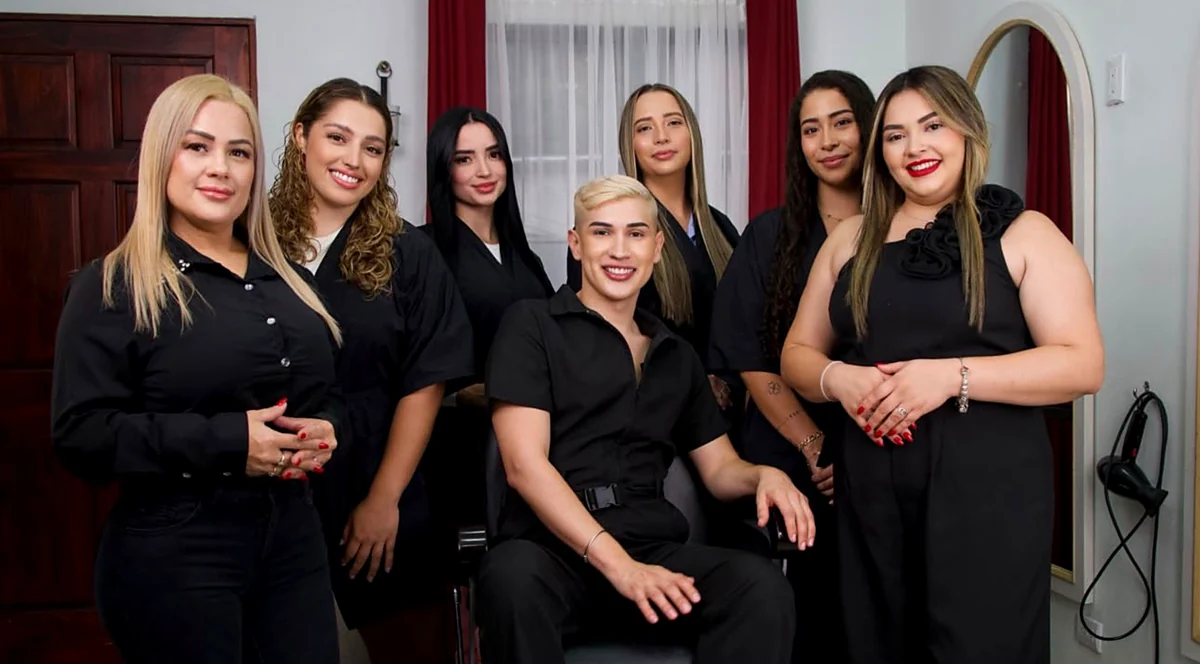
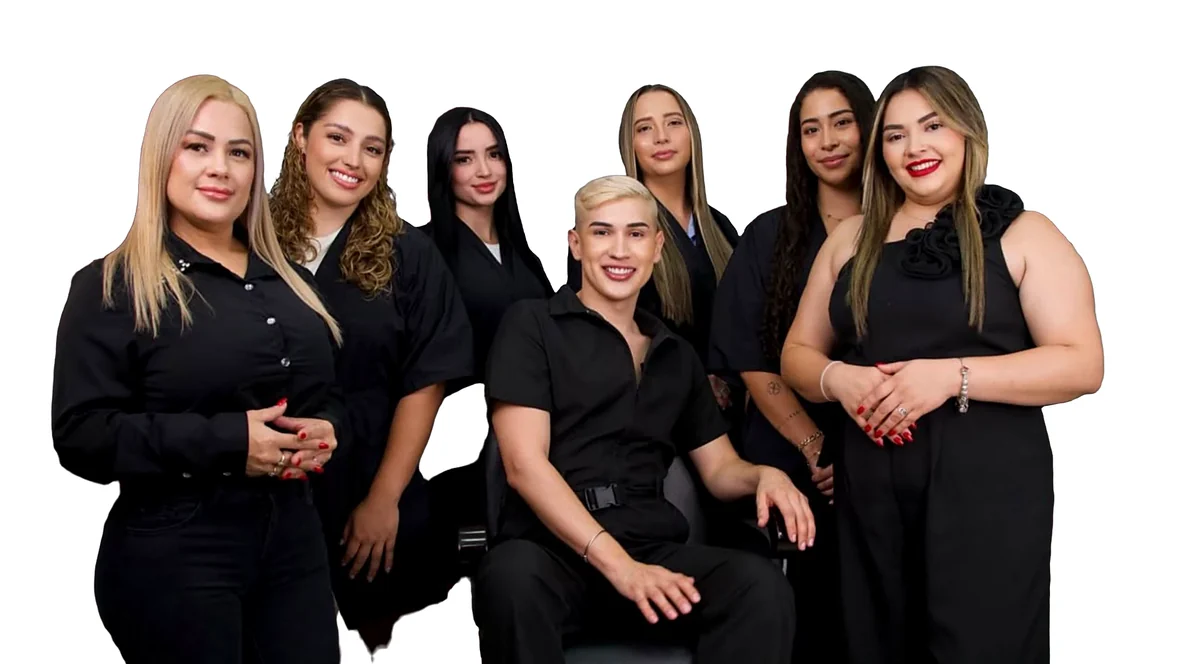
Sobre nosotros: foto del equipo con fondo blanco (rembg BiRefNet) y texto en franja debajo de la foto

diff --git a/reservar.html b/reservar.html
@@ -10,7 +10,7 @@
 <link rel="preconnect" href="https://fonts.googleapis.com">
 <link rel="preconnect" href="https://fonts.gstatic.com" crossorigin>
 <link href="https://fonts.googleapis.com/css2?family=Montserrat:wght@300;400;500;600;700&family=Playfair+Display:ital,wght@0,400;0,500;0,600;0,700;1,400;1,500;1,600;1,700&display=swap" rel="stylesheet">
-<link rel="stylesheet" href="css/style.css?v=202610102307">
+<link rel="stylesheet" href="css/style.css?v=202610102311">
 </head>
 <body>
 
@@ -335,8 +335,8 @@
     <svg viewBox="0 0 24 24" fill="none" stroke="currentColor" stroke-width="1.6" aria-hidden="true"><path d="M4 20l1.3-4.2A7.7 7.7 0 1 1 9 18.6L4 20Z"/><path d="M8.5 9.7c0 3.3 2.7 6 6 6"/></svg>
   </a>
 
-  <script src="js/main.js?v=202610102307"></script>
-  <script src="js/services-data.js?v=202610102307"></script>
-  <script src="js/booking.js?v=202610102307"></script>
+  <script src="js/main.js?v=202610102311"></script>
+  <script src="js/services-data.js?v=202610102311"></script>
+  <script src="js/booking.js?v=202610102311"></script>
 </body>
 </html>

diff --git a/index.html b/index.html
@@ -17,7 +17,7 @@
 <link rel="preconnect" href="https://fonts.googleapis.com">
 <link rel="preconnect" href="https://fonts.gstatic.com" crossorigin>
 <link href="https://fonts.googleapis.com/css2?family=Montserrat:wght@300;400;500;600;700&family=Playfair+Display:ital,wght@0,400;0,500;0,600;0,700;1,400;1,500;1,600;1,700&display=swap" rel="stylesheet">
-<link rel="stylesheet" href="css/style.css?v=202610102307">
+<link rel="stylesheet" href="css/style.css?v=202610102311">
 </head>
 <body>
 
@@ -342,6 +342,6 @@
     <svg viewBox="0 0 24 24" fill="none" stroke="currentColor" stroke-width="1.6" aria-hidden="true"><path d="M4 20l1.3-4.2A7.7 7.7 0 1 1 9 18.6L4 20Z"/><path d="M8.5 9.7c0 3.3 2.7 6 6 6"/></svg>
   </a>
 
-  <script src="js/main.js?v=202610102307"></script>
+  <script src="js/main.js?v=202610102311"></script>
 </body>
 </html>

diff --git a/productos.html b/productos.html
@@ -10,7 +10,7 @@
 <link rel="preconnect" href="https://fonts.googleapis.com">
 <link rel="preconnect" href="https://fonts.gstatic.com" crossorigin>
 <link href="https://fonts.googleapis.com/css2?family=Montserrat:wght@300;400;500;600;700&family=Playfair+Display:ital,wght@0,400;0,500;0,600;0,700;1,400;1,500;1,600;1,700&display=swap" rel="stylesheet">
-<link rel="stylesheet" href="css/style.css?v=202610102307">
+<link rel="stylesheet" href="css/style.css?v=202610102311">
 </head>
 <body>
 
@@ -178,6 +178,6 @@
     <svg viewBox="0 0 24 24" fill="none" stroke="currentColor" stroke-width="1.6" aria-hidden="true"><path d="M4 20l1.3-4.2A7.7 7.7 0 1 1 9 18.6L4 20Z"/><path d="M8.5 9.7c0 3.3 2.7 6 6 6"/></svg>
   </a>
 
-  <script src="js/main.js?v=202610102307"></script>
+  <script src="js/main.js?v=202610102311"></script>
 </body>
 </html>

diff --git a/servicios-alisamientos.html b/servicios-alisamientos.html
@@ -10,7 +10,7 @@
 <link rel="preconnect" href="https://fonts.googleapis.com">
 <link rel="preconnect" href="https://fonts.gstatic.com" crossorigin>
 <link href="https://fonts.googleapis.com/css2?family=Montserrat:wght@300;400;500;600;700&family=Playfair+Display:ital,wght@0,400;0,500;0,600;0,700;1,400;1,500;1,600;1,700&display=swap" rel="stylesheet">
-<link rel="stylesheet" href="css/style.css?v=202610102307">
+<link rel="stylesheet" href="css/style.css?v=202610102311">
 </head>
 <body>
 
@@ -335,6 +335,6 @@
     <svg viewBox="0 0 24 24" fill="none" stroke="currentColor" stroke-width="1.6" aria-hidden="true"><path d="M4 20l1.3-4.2A7.7 7.7 0 1 1 9 18.6L4 20Z"/><path d="M8.5 9.7c0 3.3 2.7 6 6 6"/></svg>
   </a>
 
-  <script src="js/main.js?v=202610102307"></script>
+  <script src="js/main.js?v=202610102311"></script>
 </body>
 </html>

diff --git a/servicios-cirugia-capilar.html b/servicios-cirugia-capilar.html
@@ -10,7 +10,7 @@
 <link rel="preconnect" href="https://fonts.googleapis.com">
 <link rel="preconnect" href="https://fonts.gstatic.com" crossorigin>
 <link href="https://fonts.googleapis.com/css2?family=Montserrat:wght@300;400;500;600;700&family=Playfair+Display:ital,wght@0,400;0,500;0,600;0,700;1,400;1,500;1,600;1,700&display=swap" rel="stylesheet">
-<link rel="stylesheet" href="css/style.css?v=202610102307">
+<link rel="stylesheet" href="css/style.css?v=202610102311">
 </head>
 <body>
 
@@ -274,6 +274,6 @@
     <svg viewBox="0 0 24 24" fill="none" stroke="currentColor" stroke-width="1.6" aria-hidden="true"><path d="M4 20l1.3-4.2A7.7 7.7 0 1 1 9 18.6L4 20Z"/><path d="M8.5 9.7c0 3.3 2.7 6 6 6"/></svg>
   </a>
 
-  <script src="js/main.js?v=202610102307"></script>
+  <script src="js/main.js?v=202610102311"></script>
 </body>
 </html>

diff --git a/servicios-color-parejo.html b/servicios-color-parejo.html
@@ -10,7 +10,7 @@
 <link rel="preconnect" href="https://fonts.googleapis.com">
 <link rel="preconnect" href="https://fonts.gstatic.com" crossorigin>
 <link href="https://fonts.googleapis.com/css2?family=Montserrat:wght@300;400;500;600;700&family=Playfair+Display:ital,wght@0,400;0,500;0,600;0,700;1,400;1,500;1,600;1,700&display=swap" rel="stylesheet">
-<link rel="stylesheet" href="css/style.css?v=202610102307">
+<link rel="stylesheet" href="css/style.css?v=202610102311">
 </head>
 <body>
 
@@ -273,6 +273,6 @@
     <svg viewBox="0 0 24 24" fill="none" stroke="currentColor" stroke-width="1.6" aria-hidden="true"><path d="M4 20l1.3-4.2A7.7 7.7 0 1 1 9 18.6L4 20Z"/><path d="M8.5 9.7c0 3.3 2.7 6 6 6"/></svg>
   </a>
 
-  <script src="js/main.js?v=202610102307"></script>
+  <script src="js/main.js?v=202610102311"></script>
 </body>
 </html>

diff --git a/servicios-cortes.html b/servicios-cortes.html
@@ -10,7 +10,7 @@
 <link rel="preconnect" href="https://fonts.googleapis.com">
 <link rel="preconnect" href="https://fonts.gstatic.com" crossorigin>
 <link href="https://fonts.googleapis.com/css2?family=Montserrat:wght@300;400;500;600;700&family=Playfair+Display:ital,wght@0,400;0,500;0,600;0,700;1,400;1,500;1,600;1,700&display=swap" rel="stylesheet">
-<link rel="stylesheet" href="css/style.css?v=202610102307">
+<link rel="stylesheet" href="css/style.css?v=202610102311">
 </head>
 <body>
 
@@ -264,6 +264,6 @@
     <svg viewBox="0 0 24 24" fill="none" stroke="currentColor" stroke-width="1.6" aria-hidden="true"><path d="M4 20l1.3-4.2A7.7 7.7 0 1 1 9 18.6L4 20Z"/><path d="M8.5 9.7c0 3.3 2.7 6 6 6"/></svg>
   </a>
 
-  <script src="js/main.js?v=202610102307"></script>
+  <script src="js/main.js?v=202610102311"></script>
 </body>
 </html>

diff --git a/servicios-rizos.html b/servicios-rizos.html
@@ -10,7 +10,7 @@
 <link rel="preconnect" href="https://fonts.googleapis.com">
 <link rel="preconnect" href="https://fonts.gstatic.com" crossorigin>
 <link href="https://fonts.googleapis.com/css2?family=Montserrat:wght@300;400;500;600;700&family=Playfair+Display:ital,wght@0,400;0,500;0,600;0,700;1,400;1,500;1,600;1,700&display=swap" rel="stylesheet">
-<link rel="stylesheet" href="css/style.css?v=202610102307">
+<link rel="stylesheet" href="css/style.css?v=202610102311">
 </head>
 <body>
 
@@ -239,6 +239,6 @@
     <svg viewBox="0 0 24 24" fill="none" stroke="currentColor" stroke-width="1.6" aria-hidden="true"><path d="M4 20l1.3-4.2A7.7 7.7 0 1 1 9 18.6L4 20Z"/><path d="M8.5 9.7c0 3.3 2.7 6 6 6"/></svg>
   </a>
 
-  <script src="js/main.js?v=202610102307"></script>
+  <script src="js/main.js?v=202610102311"></script>
 </body>
 </html>

diff --git a/servicios-tecnica-color.html b/servicios-tecnica-color.html
@@ -10,7 +10,7 @@
 <link rel="preconnect" href="https://fonts.googleapis.com">
 <link rel="preconnect" href="https://fonts.gstatic.com" crossorigin>
 <link href="https://fonts.googleapis.com/css2?family=Montserrat:wght@300;400;500;600;700&family=Playfair+Display:ital,wght@0,400;0,500;0,600;0,700;1,400;1,500;1,600;1,700&display=swap" rel="stylesheet">
-<link rel="stylesheet" href="css/style.css?v=202610102307">
+<link rel="stylesheet" href="css/style.css?v=202610102311">
 </head>
 <body>
 
@@ -347,6 +347,6 @@
     <svg viewBox="0 0 24 24" fill="none" stroke="currentColor" stroke-width="1.6" aria-hidden="true"><path d="M4 20l1.3-4.2A7.7 7.7 0 1 1 9 18.6L4 20Z"/><path d="M8.5 9.7c0 3.3 2.7 6 6 6"/></svg>
   </a>
 
-  <script src="js/main.js?v=202610102307"></script>
+  <script src="js/main.js?v=202610102311"></script>
 </body>
 </html>

diff --git a/servicios-tratamientos-capilares.html b/servicios-tratamientos-capilares.html
@@ -10,7 +10,7 @@
 <link rel="preconnect" href="https://fonts.googleapis.com">
 <link rel="preconnect" href="https://fonts.gstatic.com" crossorigin>
 <link href="https://fonts.googleapis.com/css2?family=Montserrat:wght@300;400;500;600;700&family=Playfair+Display:ital,wght@0,400;0,500;0,600;0,700;1,400;1,500;1,600;1,700&display=swap" rel="stylesheet">
-<link rel="stylesheet" href="css/style.css?v=202610102307">
+<link rel="stylesheet" href="css/style.css?v=202610102311">
 </head>
 <body>
 
@@ -409,6 +409,6 @@
     <svg viewBox="0 0 24 24" fill="none" stroke="currentColor" stroke-width="1.6" aria-hidden="true"><path d="M4 20l1.3-4.2A7.7 7.7 0 1 1 9 18.6L4 20Z"/><path d="M8.5 9.7c0 3.3 2.7 6 6 6"/></svg>
   </a>
 
-  <script src="js/main.js?v=202610102307"></script>
+  <script src="js/main.js?v=202610102311"></script>
 </body>
 </html>

diff --git a/servicios.html b/servicios.html
@@ -10,7 +10,7 @@
 <link rel="preconnect" href="https://fonts.googleapis.com">
 <link rel="preconnect" href="https://fonts.gstatic.com" crossorigin>
 <link href="https://fonts.googleapis.com/css2?family=Montserrat:wght@300;400;500;600;700&family=Playfair+Display:ital,wght@0,400;0,500;0,600;0,700;1,400;1,500;1,600;1,700&display=swap" rel="stylesheet">
-<link rel="stylesheet" href="css/style.css?v=202610102307">
+<link rel="stylesheet" href="css/style.css?v=202610102311">
 </head>
 <body>
 
@@ -269,6 +269,6 @@
     <svg viewBox="0 0 24 24" fill="none" stroke="currentColor" stroke-width="1.6" aria-hidden="true"><path d="M4 20l1.3-4.2A7.7 7.7 0 1 1 9 18.6L4 20Z"/><path d="M8.5 9.7c0 3.3 2.7 6 6 6"/></svg>
   </a>
 
-  <script src="js/main.js?v=202610102307"></script>
+  <script src="js/main.js?v=202610102311"></script>
 </body>
 </html>

diff --git a/sobre-nosotros.html b/sobre-nosotros.html
@@ -10,7 +10,7 @@
 <link rel="preconnect" href="https://fonts.googleapis.com">
 <link rel="preconnect" href="https://fonts.gstatic.com" crossorigin>
 <link href="https://fonts.googleapis.com/css2?family=Montserrat:wght@300;400;500;600;700&family=Playfair+Display:ital,wght@0,400;0,500;0,600;0,700;1,400;1,500;1,600;1,700&display=swap" rel="stylesheet">
-<link rel="stylesheet" href="css/style.css?v=202610102307">
+<link rel="stylesheet" href="css/style.css?v=202610102311">
 </head>
 <body>
 
@@ -181,6 +181,6 @@
     <svg viewBox="0 0 24 24" fill="none" stroke="currentColor" stroke-width="1.6" aria-hidden="true"><path d="M4 20l1.3-4.2A7.7 7.7 0 1 1 9 18.6L4 20Z"/><path d="M8.5 9.7c0 3.3 2.7 6 6 6"/></svg>
   </a>
 
-  <script src="js/main.js?v=202610102307"></script>
+  <script src="js/main.js?v=202610102311"></script>
 </body>
 </html>
